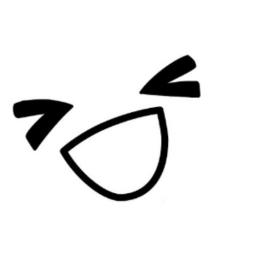
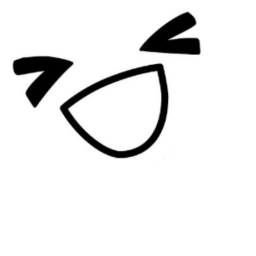
Update site

Changed region(s): [[0.0312, 0.0312, 0.8125, 0.8125]]

diff --git a/js/card.js b/js/card.js
@@ -157,19 +157,29 @@ function fitStrip(span) {
   });
 }
 
-/** 공개 숫자만 GitHub 에서 다시 읽어 온다. 실패하면 구워 둔 값을 그대로 쓴다. */
+/** 새 사진을 다 받은 뒤에 바꿔서 카드 그림이 깜빡이지 않게 한다. */
+function showAvatar(url) {
+  const next = new Image();
+  next.onload = () => {
+    document.querySelector('.art img').src = next.src;
+  };
+  next.src = `${url}&s=512`;
+}
+
+/** 공개 저장소 수와 프로필 사진을 GitHub 에서 다시 읽어 온다. 실패하면 구워 둔 숫자와 사본을 그대로 쓴다. */
 async function refreshFromGitHub() {
   try {
     const cached = readStore('hoos.github', null);
     let live = cached;
-    if (!cached || Date.now() - cached.at > 3600000) {
+    if (!cached?.avatarUrl || Date.now() - cached.at > 3600000) {
       const response = await fetch(`https://api.github.com/users/${GITHUB.login}`, { headers: { Accept: 'application/vnd.github+json' } });
       if (!response.ok) return;
       const profile = await response.json();
-      live = { at: Date.now(), publicRepos: profile.public_repos };
+      live = { at: Date.now(), publicRepos: profile.public_repos, avatarUrl: profile.avatar_url };
       writeStore('hoos.github', live);
     }
     document.getElementById('c-count').textContent = `${live.publicRepos} PUBLIC REPOS SO FAR`;
+    showAvatar(live.avatarUrl);
   } catch {
     // 네트워크가 막혀도 카드는 구워 둔 숫자로 보인다.
   }

diff --git a/index.html b/index.html
@@ -17,7 +17,7 @@
   <meta property="og:image:height" content="630">
   <meta property="og:image:alt" content="파란 설계도 위에 GitHub 카드가 놓인 Hoon 첫 화면">
   <meta name="twitter:card" content="summary_large_image">
-  <meta http-equiv="Content-Security-Policy" content="default-src 'none'; script-src 'self'; style-src 'self' https://cdn.jsdelivr.net https://fonts.googleapis.com; font-src https://cdn.jsdelivr.net https://fonts.gstatic.com; img-src 'self' data:; connect-src https://api.github.com; frame-src https:; base-uri 'none'; form-action 'none'">
+  <meta http-equiv="Content-Security-Policy" content="default-src 'none'; script-src 'self'; style-src 'self' https://cdn.jsdelivr.net https://fonts.googleapis.com; font-src https://cdn.jsdelivr.net https://fonts.gstatic.com; img-src 'self' data: https://avatars.githubusercontent.com; connect-src https://api.github.com; frame-src https:; base-uri 'none'; form-action 'none'">
   <title>Hoon</title>
   <link rel="icon" href="favicon.png" type="image/png">
   <link rel="apple-touch-icon" href="apple-touch-icon.png">

diff --git a/css/os.css b/css/os.css
@@ -289,15 +289,17 @@ button, input { font: inherit; color: inherit; }
   letter-spacing: 0.14em;
 }
 
-/* 프로필 그림은 자르지 않고 오른쪽에 붙인다. 왼쪽 빈 곳에 글자가 들어간다. */
+/*
+ * GitHub 프로필 사진을 그대로 쓴다. 지금 사진은 얼굴이 위쪽에 치우쳐 있어서 아래로 내려 카드 그림 칸의 가운데에 맞춘다.
+ * 사진 아래쪽의 흰 여백만 칸 밖으로 잘린다. 왼쪽 빈 곳에는 글자가 들어간다.
+ */
 .art img {
   position: absolute;
-  inset: 0;
+  top: 24px;
+  right: 0;
   display: block;
-  width: 100%;
-  height: 100%;
-  object-fit: contain;
-  object-position: 100% 50%;
+  width: 146px;
+  height: 146px;
 }
 
 .art span { position: relative; }
